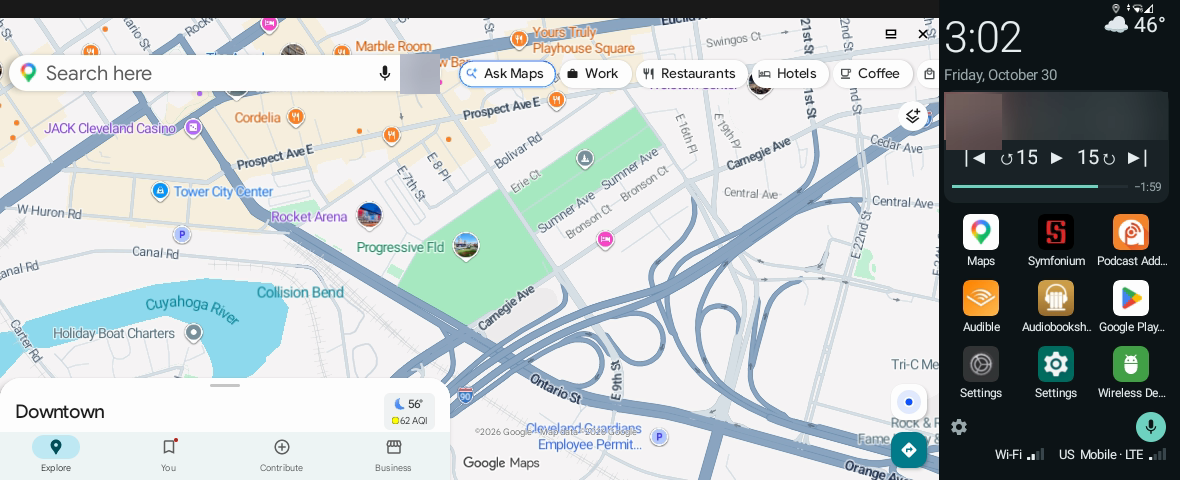
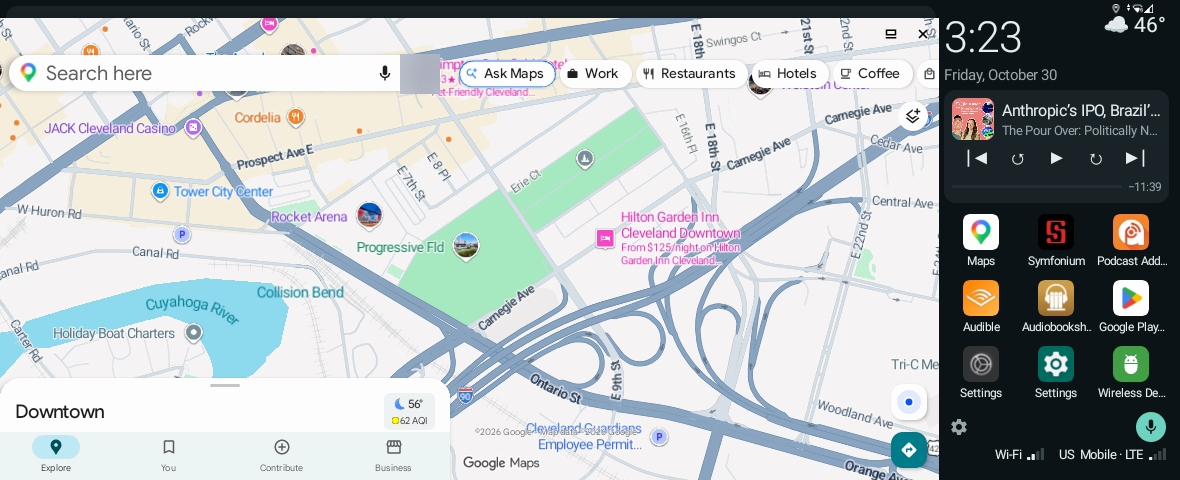
Update home screenshot: Progressive Field, music card visible

diff --git a/README.md b/README.md
@@ -15,7 +15,7 @@ tuned there. (The unit it was built on reports Android 14.)
 
 ![Home screen](docs/screenshots/home.png)
 <sub>Home screen: Google Maps in the main window, the panel on the right with weather, now playing,
-shortcuts and signal. (Account photo and track details blurred.)</sub>
+shortcuts and signal. (Account photo blurred.)</sub>
 
 ## Features
 
